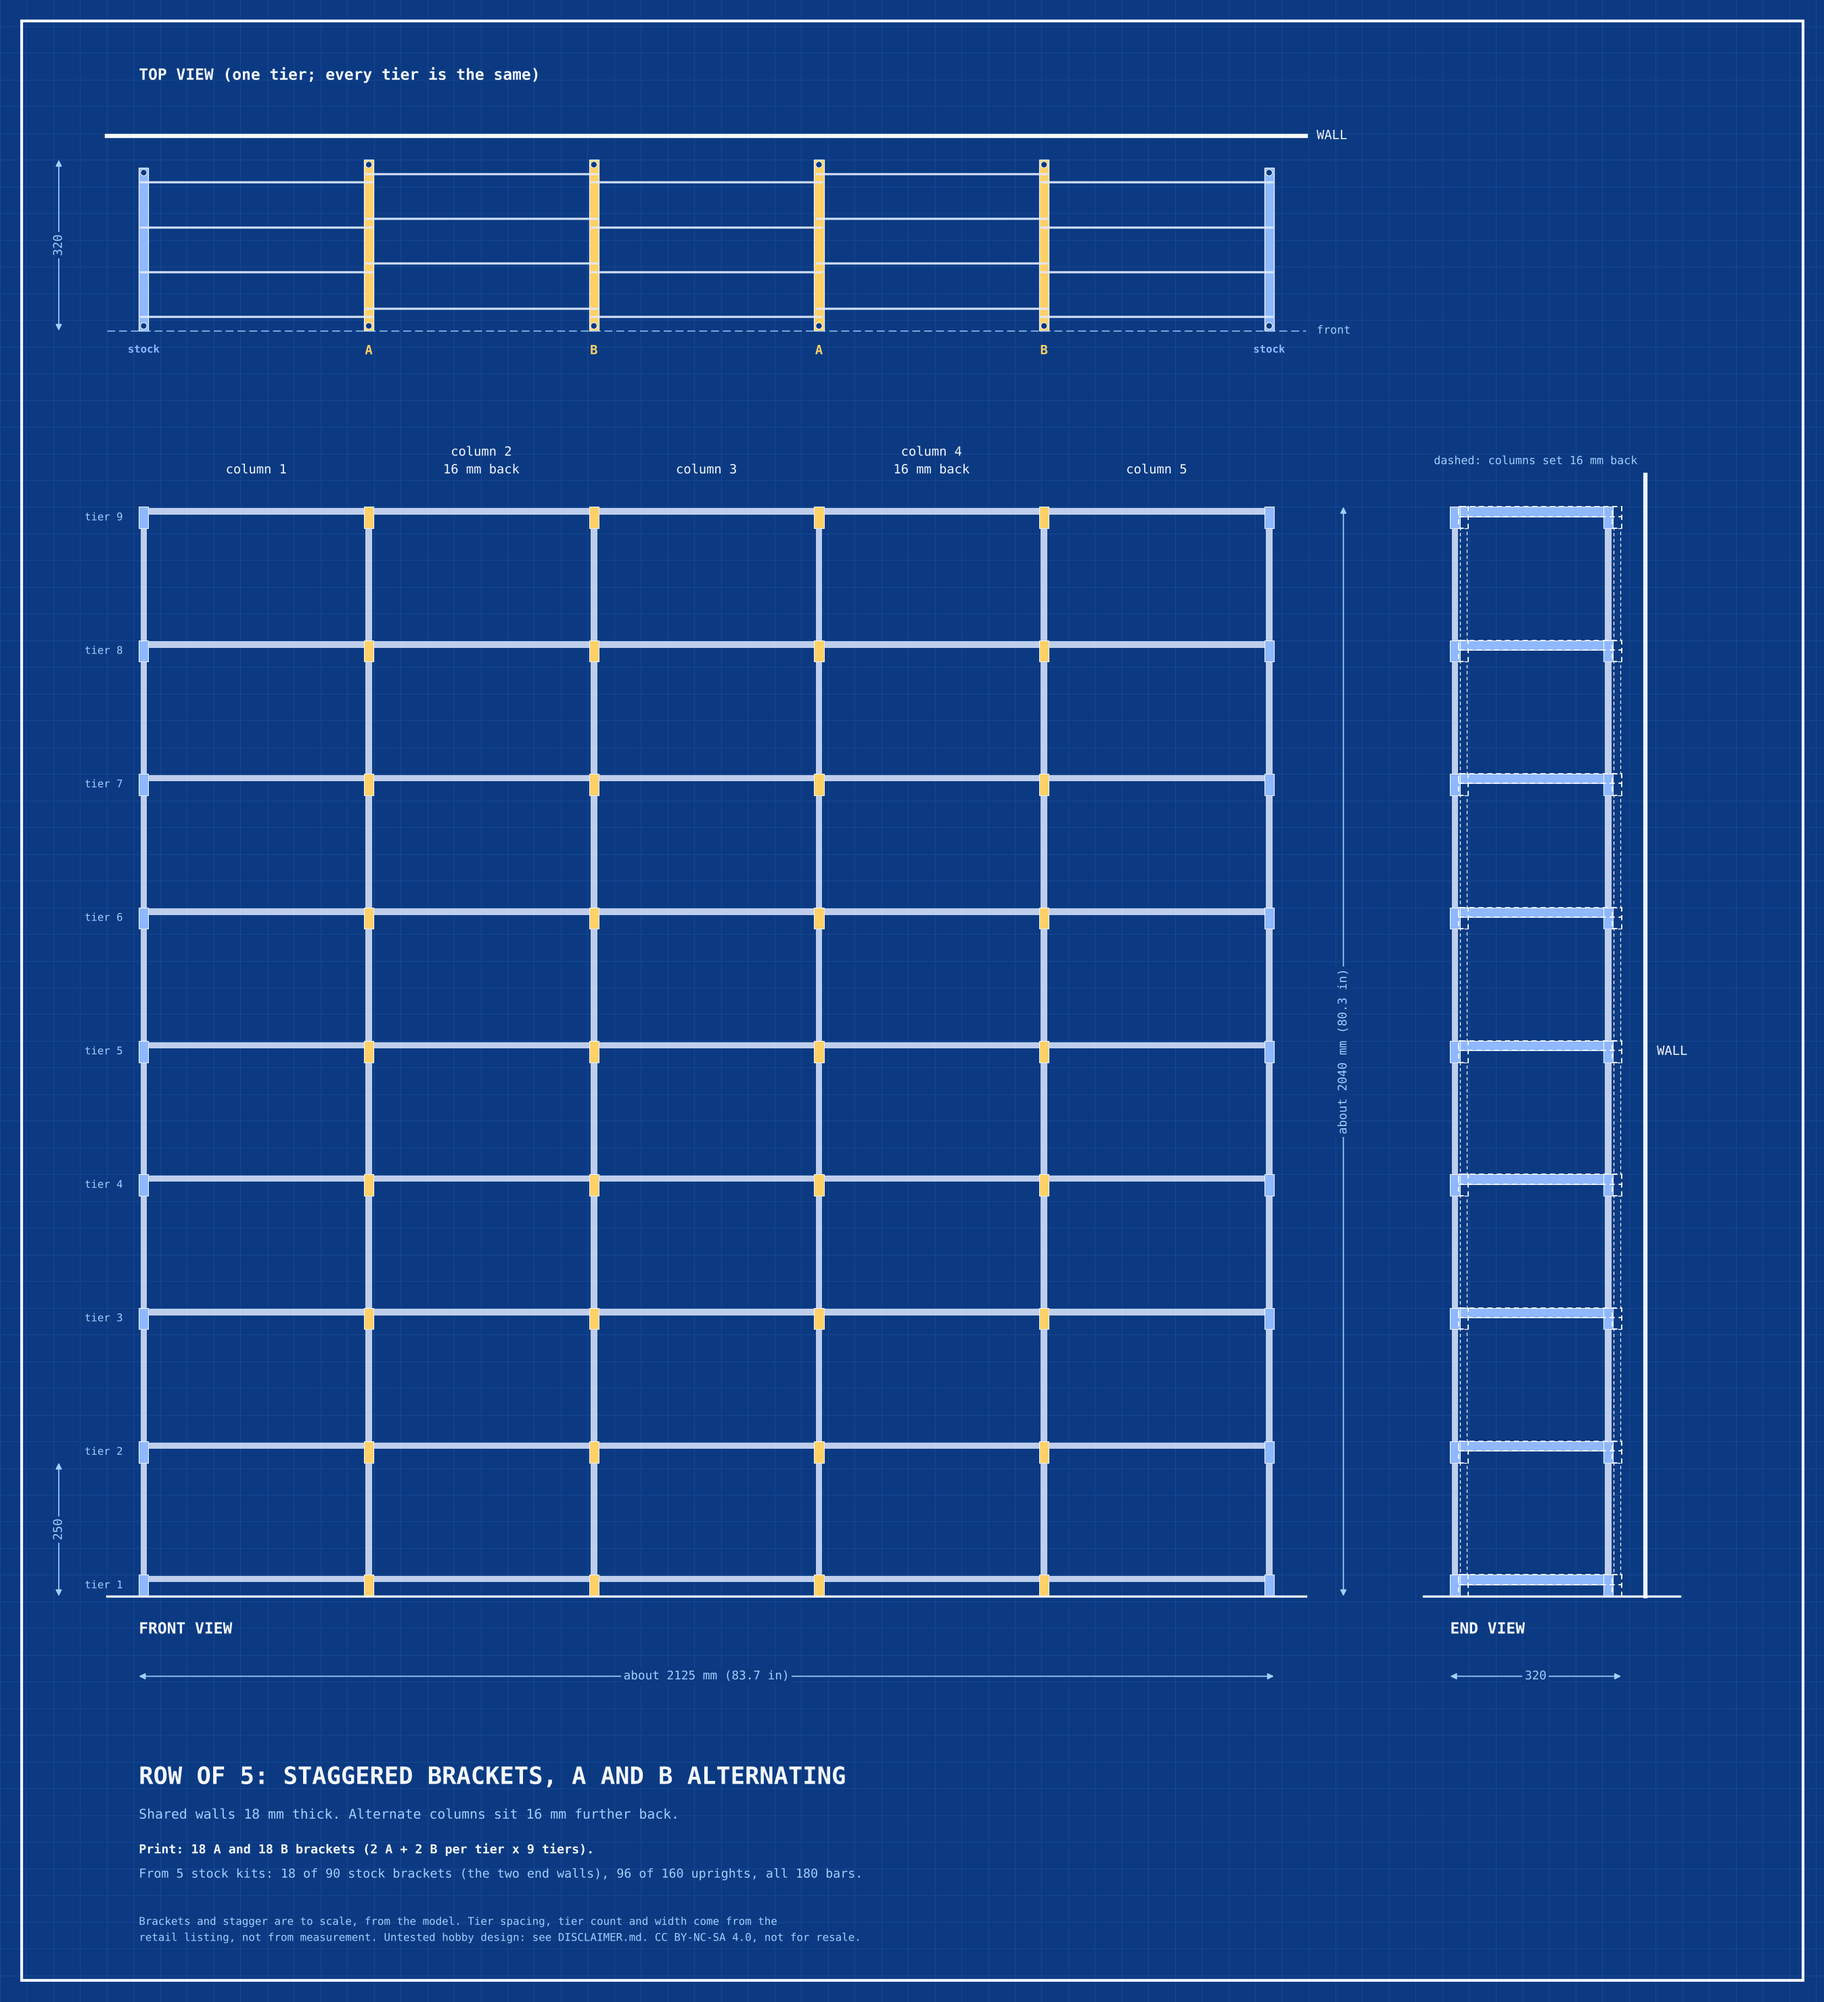
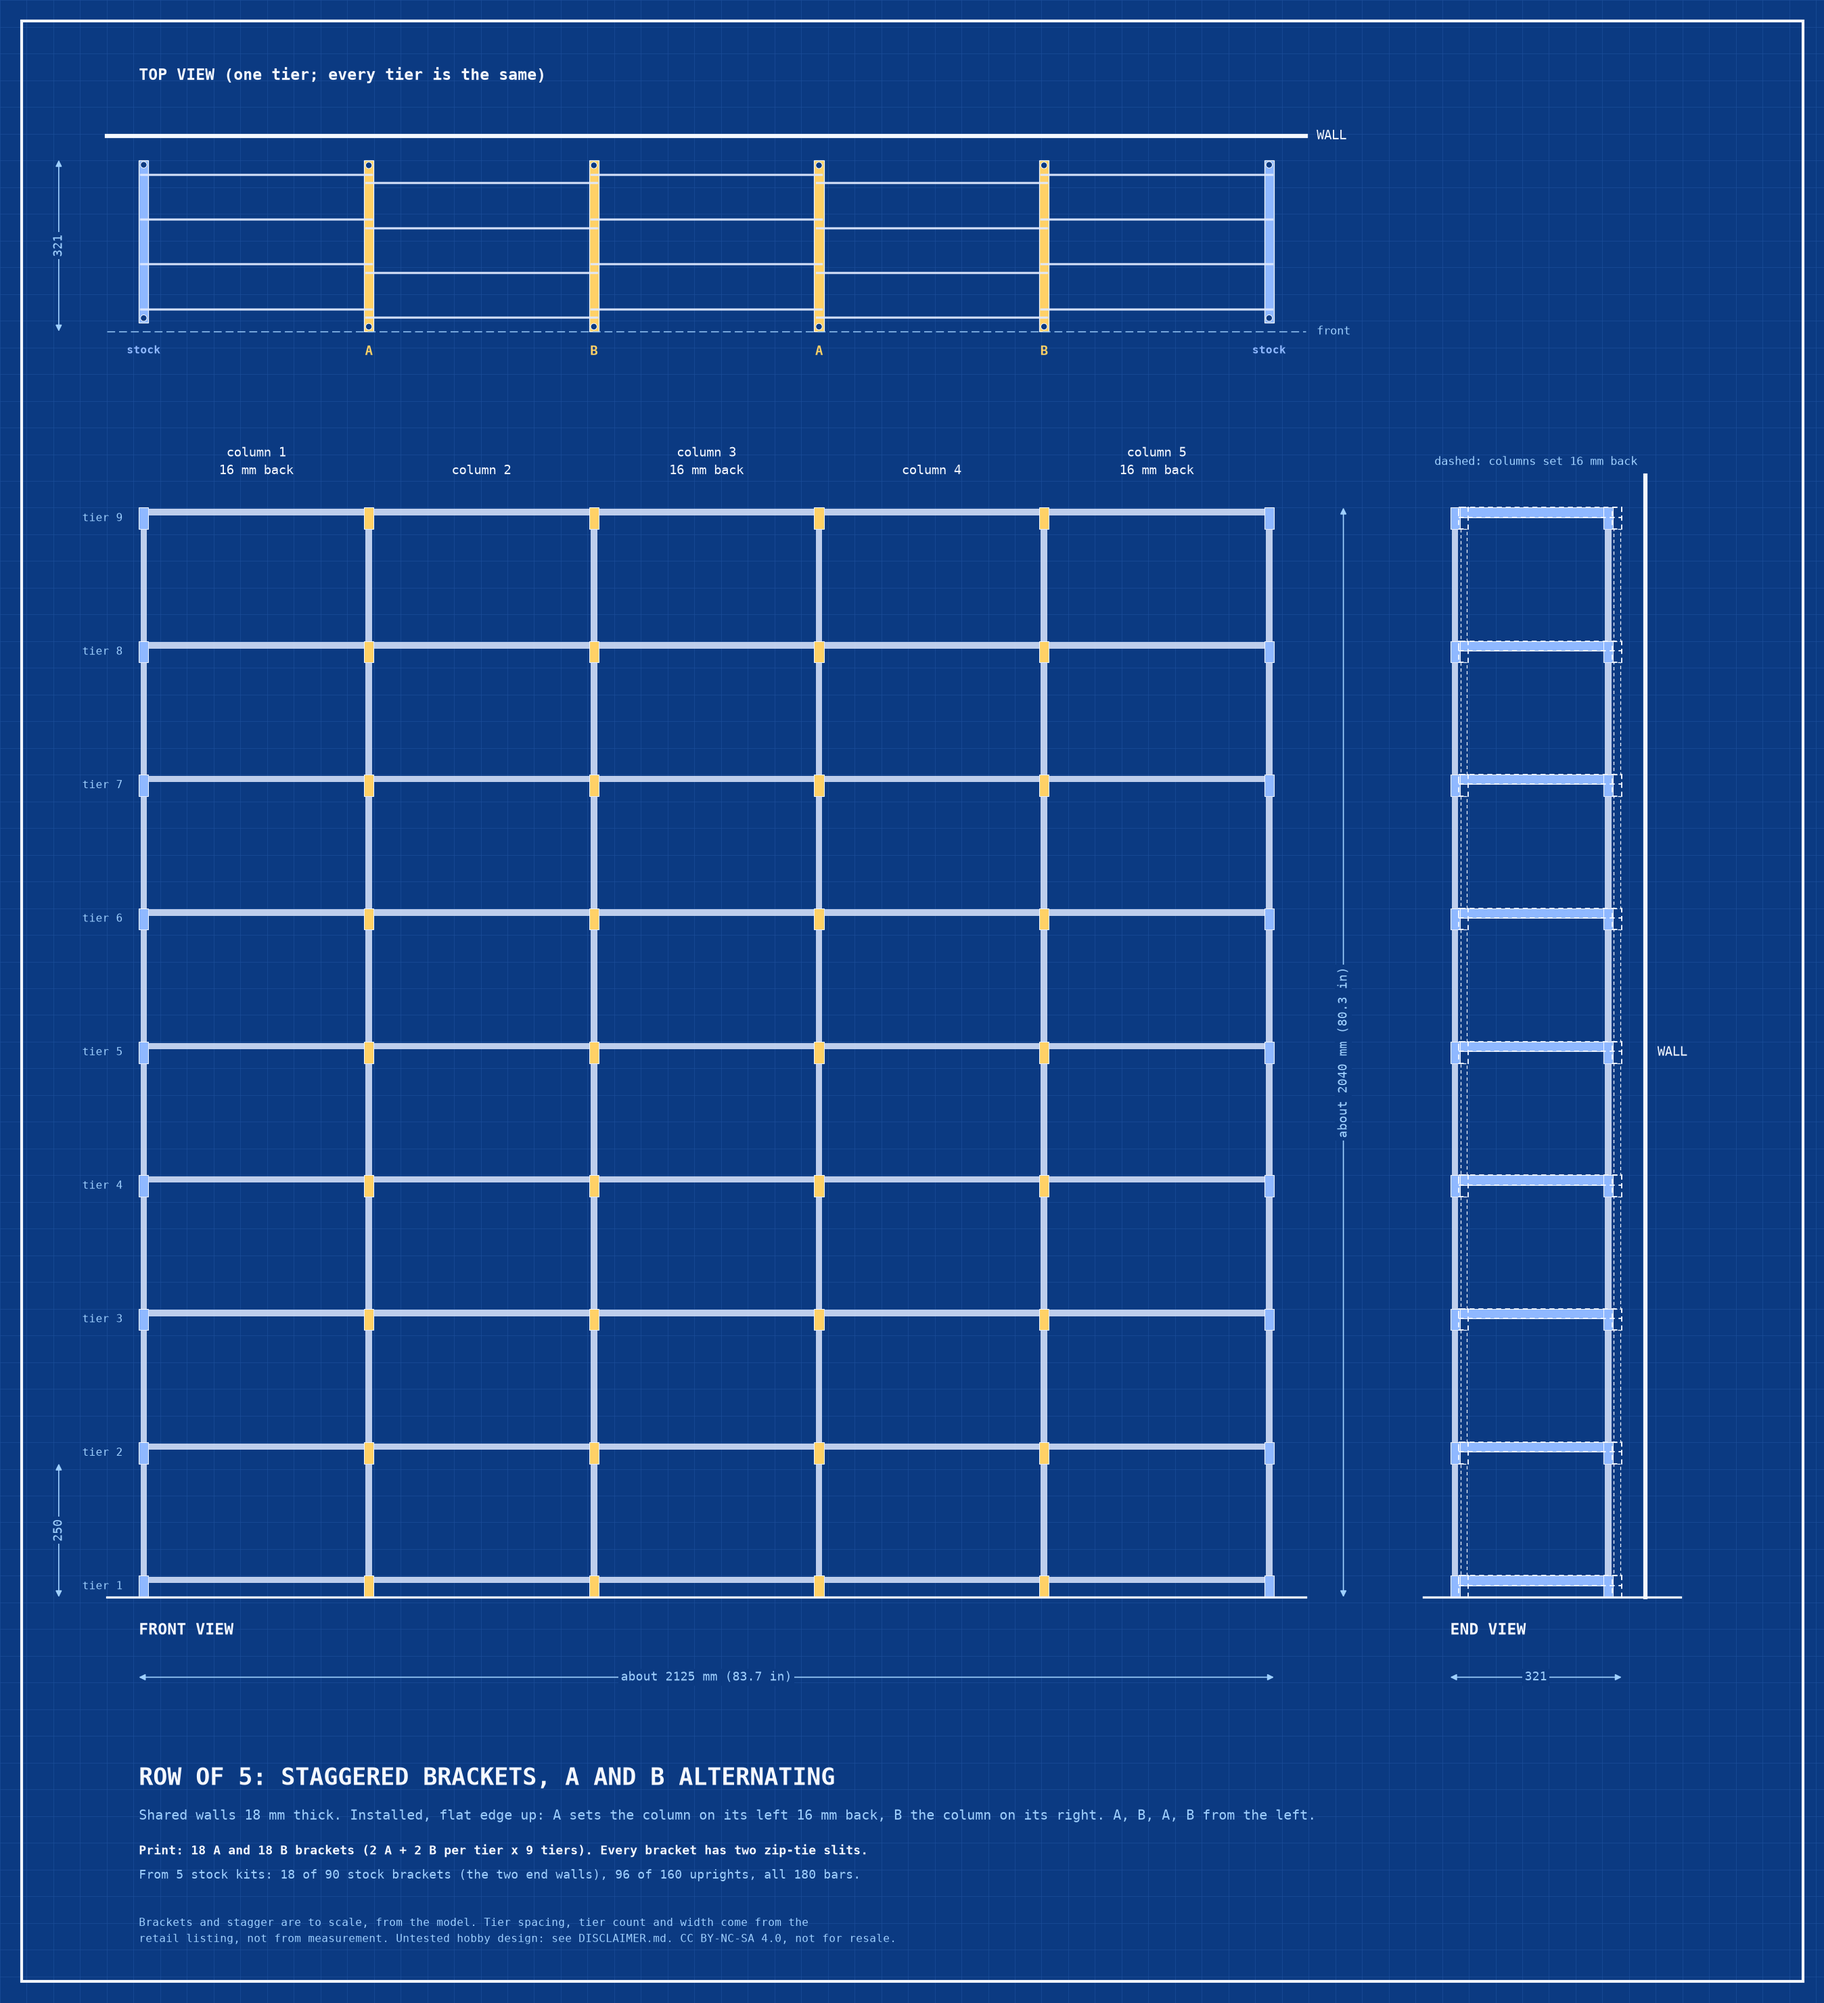
Row-of-five sheets: true for main (installed A/B, 36 mm in-line, no anchors)
Column offsets now come from make_layout_diagram.column_offsets (installed, flat edge up: A sets its left column back, so the row is A, B, A, B and columns 1, 3, 5 sit nearer the wall). Wall thicknesses and the stock bracket's size and seat depth are read from Params; the anchor advice is gone; sheets re-rendered; README parts counts and paragraph order updated.

Claude-Session: https://claude.ai/code/session_01WBpHbq9uZHsYadfiKtJcWa

diff --git a/shared-wall-bracket/make_row_sheets.py b/shared-wall-bracket/make_row_sheets.py
@@ -7,7 +7,9 @@ Writes row_of_five_in_line.png and row_of_five_staggered.png.
 
 What is to scale, and where the numbers come from:
 - Bracket sizes, socket positions and the stagger come from the bracket's
-  Params, the same values the models are built from.
+  Params, the same values the models are built from. Which way each A or B
+  steps comes from make_layout_diagram.column_offsets: installed, flat edge
+  up, an A sets the column on its left back.
 - The rack's tier spacing, tier count and bar length are NOT measured.  They
   are taken from the retail listing (9 tiers, 9.9 in apart, 17.3 in wide) and
   can be overridden on the command line.
@@ -30,6 +32,7 @@ matplotlib.use("Agg")
 import matplotlib.pyplot as plt
 from matplotlib.patches import Circle, Rectangle
 
+from make_layout_diagram import column_offsets
 from shared_wall_bracket import Params
 
 LOG_FORMAT = "%(asctime)s %(levelname)-5s %(name)s: %(message)s"
@@ -47,7 +50,7 @@ class Rack:
     tiers: int = 9
     overall_height: float = 80.3 * INCH  # listed height of the 9-tier rack
     tier_pitch: float = 250.0            # vertical distance between tiers: the listed height
-                                         # less one 40 mm bracket, over the 8 gaps of 9 tiers
+                                         # less one bracket height (Params.height), over the 8 gaps of 9 tiers
     stock_width: float = 17.3 * INCH     # outside width of one stock rack
     stock_thickness: float = 18.0        # a stock bracket
     stock_bar_depth: float = 16.0        # how far a bar seats in a stock bracket
@@ -70,12 +73,7 @@ class Wall:
 
 def build_row(kinds, rack: Rack, inline: Params, stag: Params):
     """Lay out the walls of a row.  `kinds` has one entry per shared wall."""
-    step = stag.face_offset
-    offsets = [0.0]
-    for kind in kinds:
-        offsets.append(offsets[-1] + {"I": 0.0, "A": step, "B": -step}[kind])
-    low = min(offsets)
-    offsets = [o - low for o in offsets]
+    offsets = column_offsets(kinds, stag.face_offset)
 
     walls, spans = [], []
     x = 0.0
@@ -237,8 +235,9 @@ def main() -> None:
     if args.columns < 2:
         raise SystemExit("need at least 2 columns")
 
-    rack = Rack(tiers=args.tiers, tier_pitch=args.tier_pitch, stock_width=args.stock_width)
     inline, stag = Params(), Params.staggered()
+    rack = Rack(tiers=args.tiers, tier_pitch=args.tier_pitch, stock_width=args.stock_width,
+                stock_thickness=inline.stock_thickness, stock_bar_depth=inline.bar_depth)
     n, shared = args.columns, args.columns - 1
     t = rack.tiers
     # What a row uses, against what n stock kits supply (2 brackets per tier,
@@ -251,13 +250,14 @@ def main() -> None:
     a_count, b_count = (shared + 1) // 2, shared // 2
     sheets = [
         ("in_line", f"ROW OF {n}: IN-LINE BRACKETS",
-         "Shared walls 40 mm thick. Every column lines up, front and back.",
+         f"Shared walls {inline.thickness:g} mm thick. Every column lines up, front and back.",
          ["I"] * shared,
-         [f"Print: {shared * t} in-line brackets ({shared} per tier x {t} tiers). Use anchor variants on the top tier.", common]),
+         [f"Print: {shared * t} in-line brackets ({shared} per tier x {t} tiers). Every bracket has two zip-tie slits.", common]),
         ("staggered", f"ROW OF {n}: STAGGERED BRACKETS, A AND B ALTERNATING",
-         f"Shared walls 18 mm thick. Alternate columns sit {stag.face_offset:g} mm further back.",
+         f"Shared walls {stag.thickness:g} mm thick. Installed, flat edge up: A sets the column on its left {stag.face_offset:g} mm back, "
+         f"B the column on its right. A, B, A, B from the left.",
          [("A" if i % 2 == 0 else "B") for i in range(shared)],
-         [f"Print: {a_count * t} A and {b_count * t} B brackets ({a_count} A + {b_count} B per tier x {t} tiers).", common]),
+         [f"Print: {a_count * t} A and {b_count * t} B brackets ({a_count} A + {b_count} B per tier x {t} tiers). Every bracket has two zip-tie slits.", common]),
     ]
     try:
         for stem, title, subtitle, kinds, parts in sheets:

diff --git a/shared-wall-bracket/make_layout_diagram.py b/shared-wall-bracket/make_layout_diagram.py
@@ -40,16 +40,20 @@ COLUMN_CLEAR = 150.0      # schematic clear width between brackets (real racks a
 STOCK_THICK = 18.0
 
 
-def plan(ax, y_top, title, note, walls, columns, inline: Params, stag: Params):
-    """Draw one row.  `walls` is a list of 'I', 'A' or 'B', one per shared wall."""
-    step = stag.face_offset
-    # Column offsets: how far back from the front line each column sits.  Walls are listed left to right as seen from the room.  Installed (flat
-    # edge up), an A wall sets the column on its left further back than the one on its right, and a B wall the other way round.
+def column_offsets(walls, step: float) -> list:
+    """How far back from the front line each column of a row sits, least 0. `walls` lists the shared walls left to right as seen from the room,
+    each 'I', 'A' or 'B'. Installed (flat edge up), an A wall sets the column on its left further back than the one on its right, and a B wall the
+    other way round. make_row_sheets.py draws its rows from this same function."""
     offsets = [0.0]
     for kind in walls:
         offsets.append(offsets[-1] + {"I": 0.0, "A": -step, "B": step}[kind])
     low = min(offsets)
-    offsets = [o - low for o in offsets]
+    return [o - low for o in offsets]
+
+
+def plan(ax, y_top, title, note, walls, columns, inline: Params, stag: Params):
+    """Draw one row.  `walls` is a list of 'I', 'A' or 'B', one per shared wall."""
+    offsets = column_offsets(walls, stag.face_offset)
     depth = inline.stock_length
     back = max(o + depth for o in offsets)
     front_y = y_top - back - 40          # sheet y of the front line; the wall is at the top

diff --git a/shared-wall-bracket/README.md b/shared-wall-bracket/README.md
@@ -90,6 +90,10 @@ use it as modelled at the right end of the row and turned end for end at the
 left end, where its sockets sit 1 mm off (27 mm from the front instead of 26),
 as a stock bracket's do when turned around.
 
+In the staggered layouts some columns stand off the wall. The zip-tie tether
+bridges that gap; add a spacer only if you want every column bearing on the
+wall. `make_layout_diagram.py --columns N` redraws the diagram for any row.
+
 ### Assembly sheets
 
 Top, front and end views of a full nine-tier row of five, with a parts count,
@@ -101,12 +105,13 @@ for each layout:
 
 The brackets and the stagger are to scale, from the model. The rack's tier
 spacing, tier count and width come from the retail listing, not from
-measurement, so treat the overall sizes as approximate. `make_row_sheets.py`
-redraws both, and takes `--columns` and `--tiers`.
-
-In the staggered layouts some columns stand off the wall. The zip-tie tether
-bridges that gap; add a spacer only if you want every column bearing on the
-wall. `make_layout_diagram.py --columns N` redraws the diagram for any row.
+measurement, so treat the overall sizes as approximate. Per row of five and
+tier, the in-line sheet counts 4 in-line brackets and the staggered sheet 2 A
+and 2 B; both use two stock brackets at the ends, and every bracket has the two
+zip-tie slits. Over nine tiers that is 36 in-line brackets, or 18 A and 18 B,
+from five stock kits (18 of 90 stock brackets, 96 of 160 uprights, all 180
+bars). `make_row_sheets.py` redraws both, and takes `--columns` and `--tiers`;
+it shares `make_layout_diagram.py`'s A/B column offsets.
 
 ## Status
 
